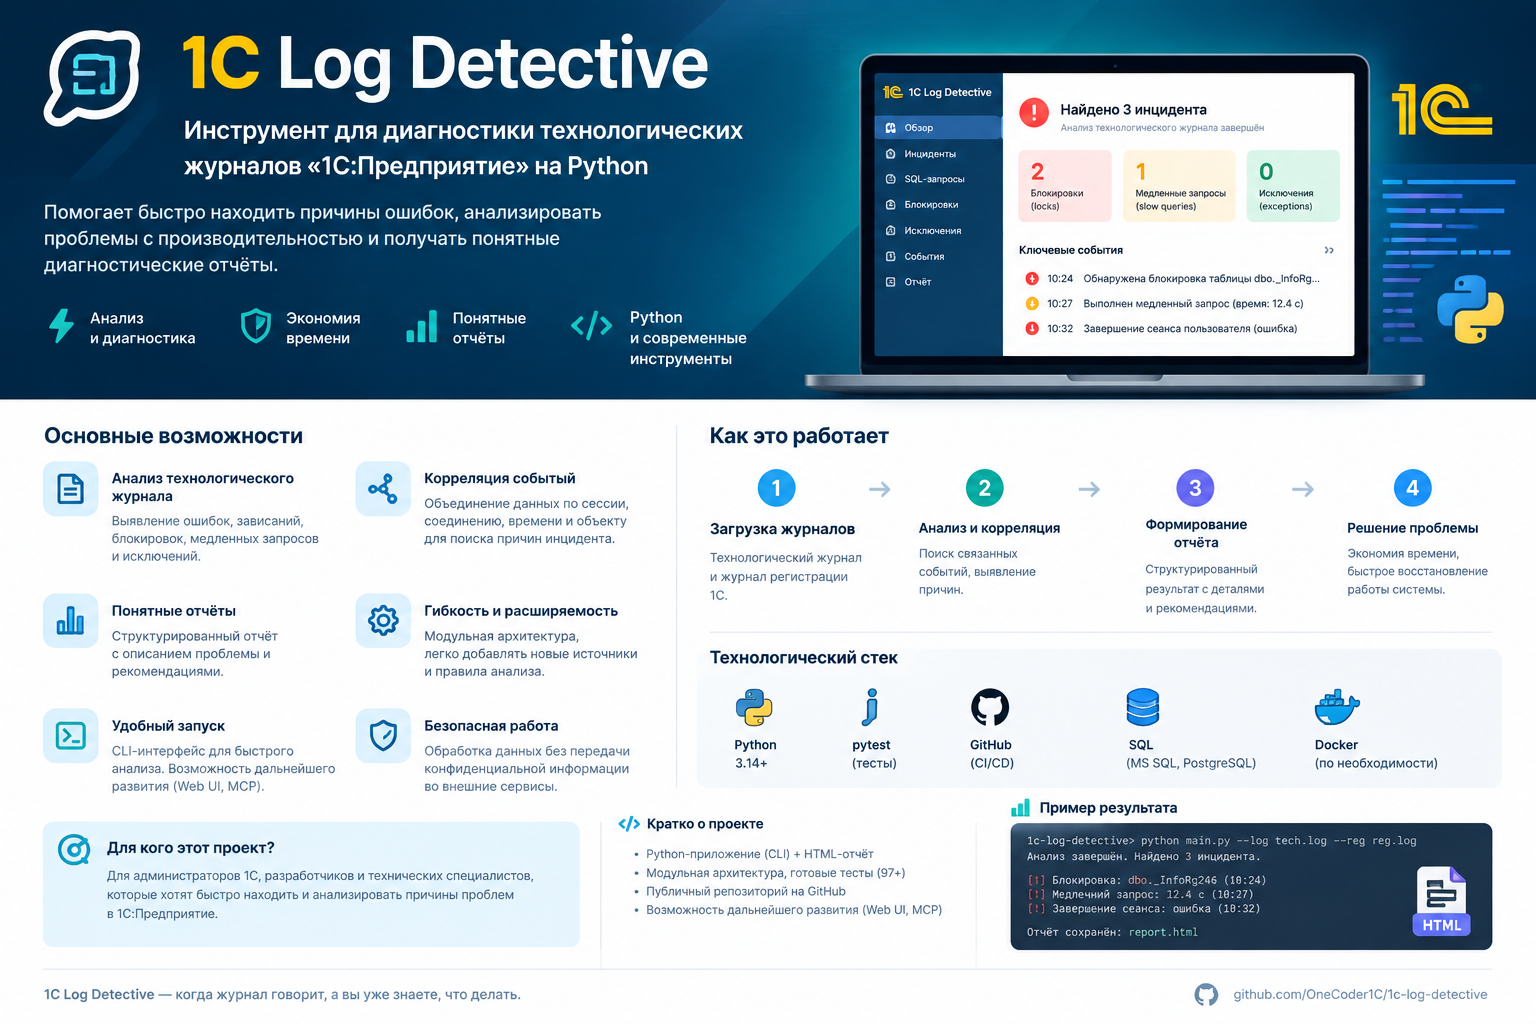
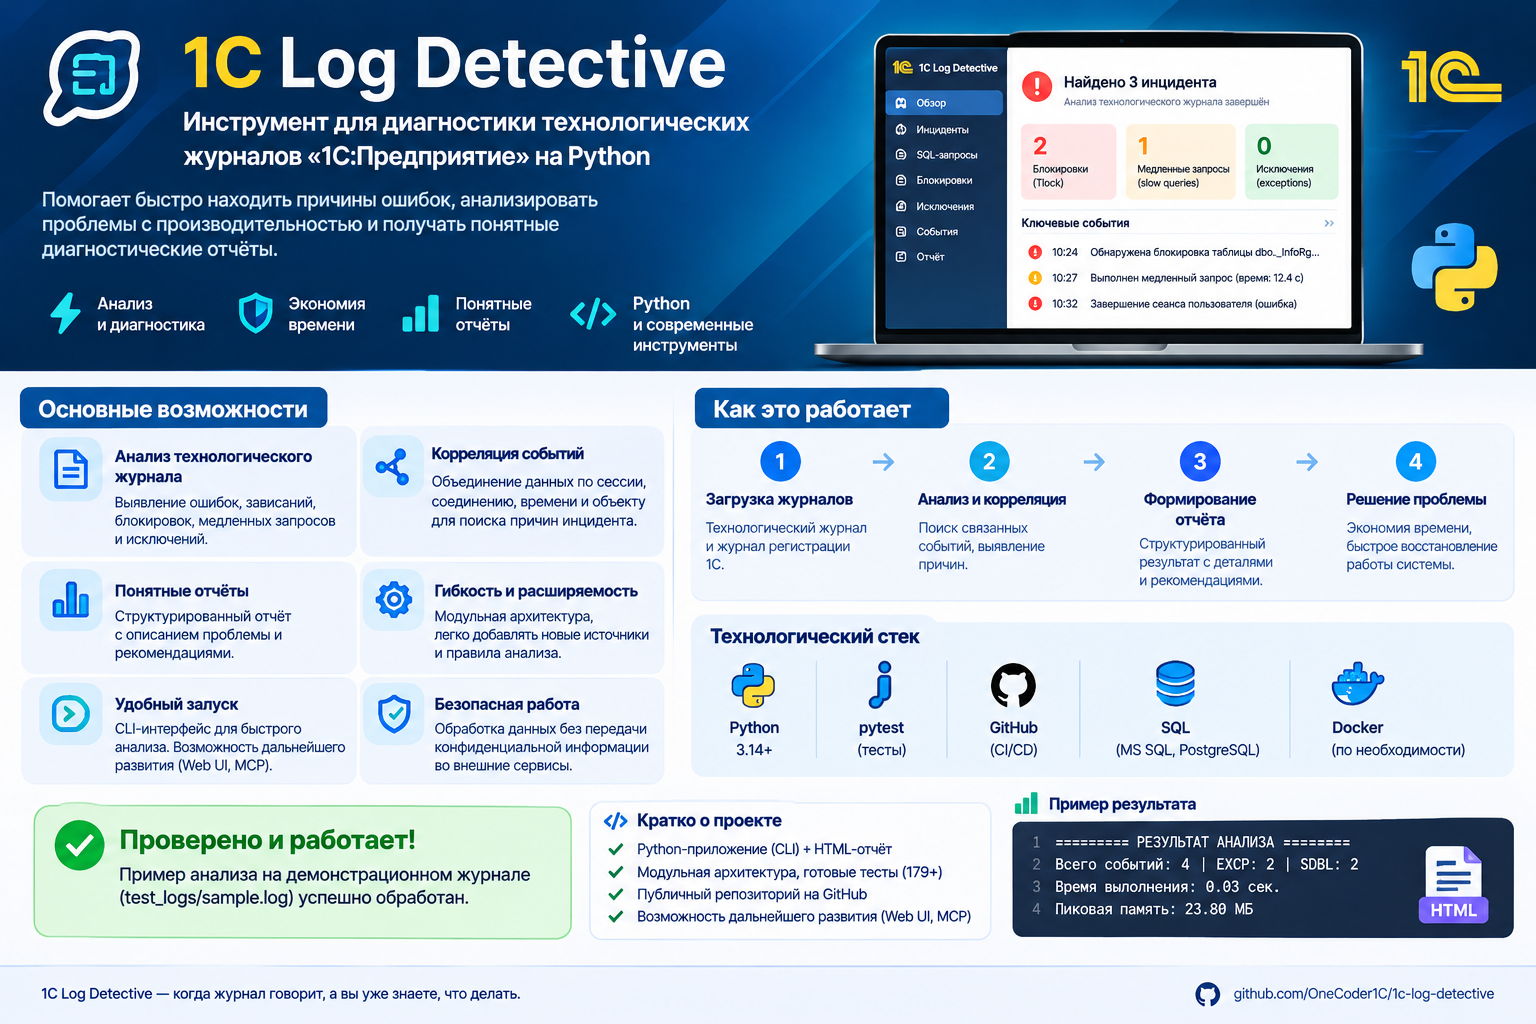
Prepare project demo and update README

diff --git a/README.md b/README.md
@@ -37,9 +37,9 @@
 
 ### Анализ производительности
 
-- Сбор статистики длительности событий.
+- Сбор статистики длительности событий по типам.
 - Группировка SQL-запросов по типу и нормализованному тексту.
-- Подсчёт количества выполнений и суммарной длительности запросов.
+- Подсчёт количества выполнений и статистика длительности SQL-операций.
 - Расчёт среднего и максимального времени выполнения.
 - Расчёт 95-го перцентиля (P95).
 - Выделение медленных операций с порогом по умолчанию 10 мс.
@@ -85,10 +85,11 @@
 ├── run_unified_analysis.py
 │
 ├── sample_log.txt
+├── requirements.txt
+├── pytest.ini
 ├── banner.png
 ├── README.md
 ├── .gitignore
-├── pytest.ini
 │
 ├── .github/
 │   └── workflows/
@@ -98,6 +99,7 @@
 │   └── автоматические тесты проекта
 │
 ├── demo/
+│   ├── sample_techlog.txt
 │   └── demo_report.md
 │
 └── tools/
@@ -118,7 +120,7 @@ cd 1c-log-detective
 Установка зависимостей:
 
 ```powershell
-python -m pip install psutil
+python -m pip install -r requirements.txt
 ```
 
 Для запуска автоматических тестов дополнительно установите pytest:
@@ -128,6 +130,13 @@ python -m pip install pytest
 ```
 
 ## Запуск
+
+### Установка зависимостей
+
+```powershell
+python -m pip install -r requirements.txt
+python -m pip install pytest
+```
 
 ### Базовый CLI-анализатор
 
@@ -148,6 +157,24 @@ python main.py sample_log.txt report.txt ALL
 Этот сценарий предназначен для демонстрации базовой обработки текстовых событий и отличается от полноценного анализа технологического журнала 1С.
 
 ### Единый анализатор технологического журнала
+
+Для быстрой проверки работы анализатора используйте демонстрационный журнал из репозитория:
+
+```powershell
+python run_unified_analysis.py demo/sample_techlog.txt demo/demo_report.txt
+```
+
+В демонстрационном журнале содержатся 4 синтетических события: 2 `EXCP` и 2 `SDBL`.
+
+Ожидаемый результат:
+
+- Всего событий: 4;
+- EXCP: 2;
+- SDBL: 2;
+- Время анализа: около 0,03 сек.;
+- Пиковая память: около 23,80 МБ.
+
+Показатели времени и памяти зависят от компьютера и условий запуска.
 
 Для анализа собственного технологического журнала укажите путь к входному файлу:
 
@@ -198,12 +225,12 @@ python run_unified_analysis.py --help
 python -m pytest -v
 ```
 
-Текущий набор проекта включает **177 успешно проходящих тестов**.
+Текущий набор проекта включает **179 автоматических тестов**.
 
 Последняя проверка:
 
 ```text
-177 passed in 1.22s
+179 passed
 ```
 
 В репозитории также настроен GitHub Actions для автоматического запуска тестов.
@@ -229,6 +256,7 @@ python -m pytest -v
 - Python
 - SQLite
 - psutil
+- pympler
 - pytest
 - Git и GitHub
 - GitHub Actions
